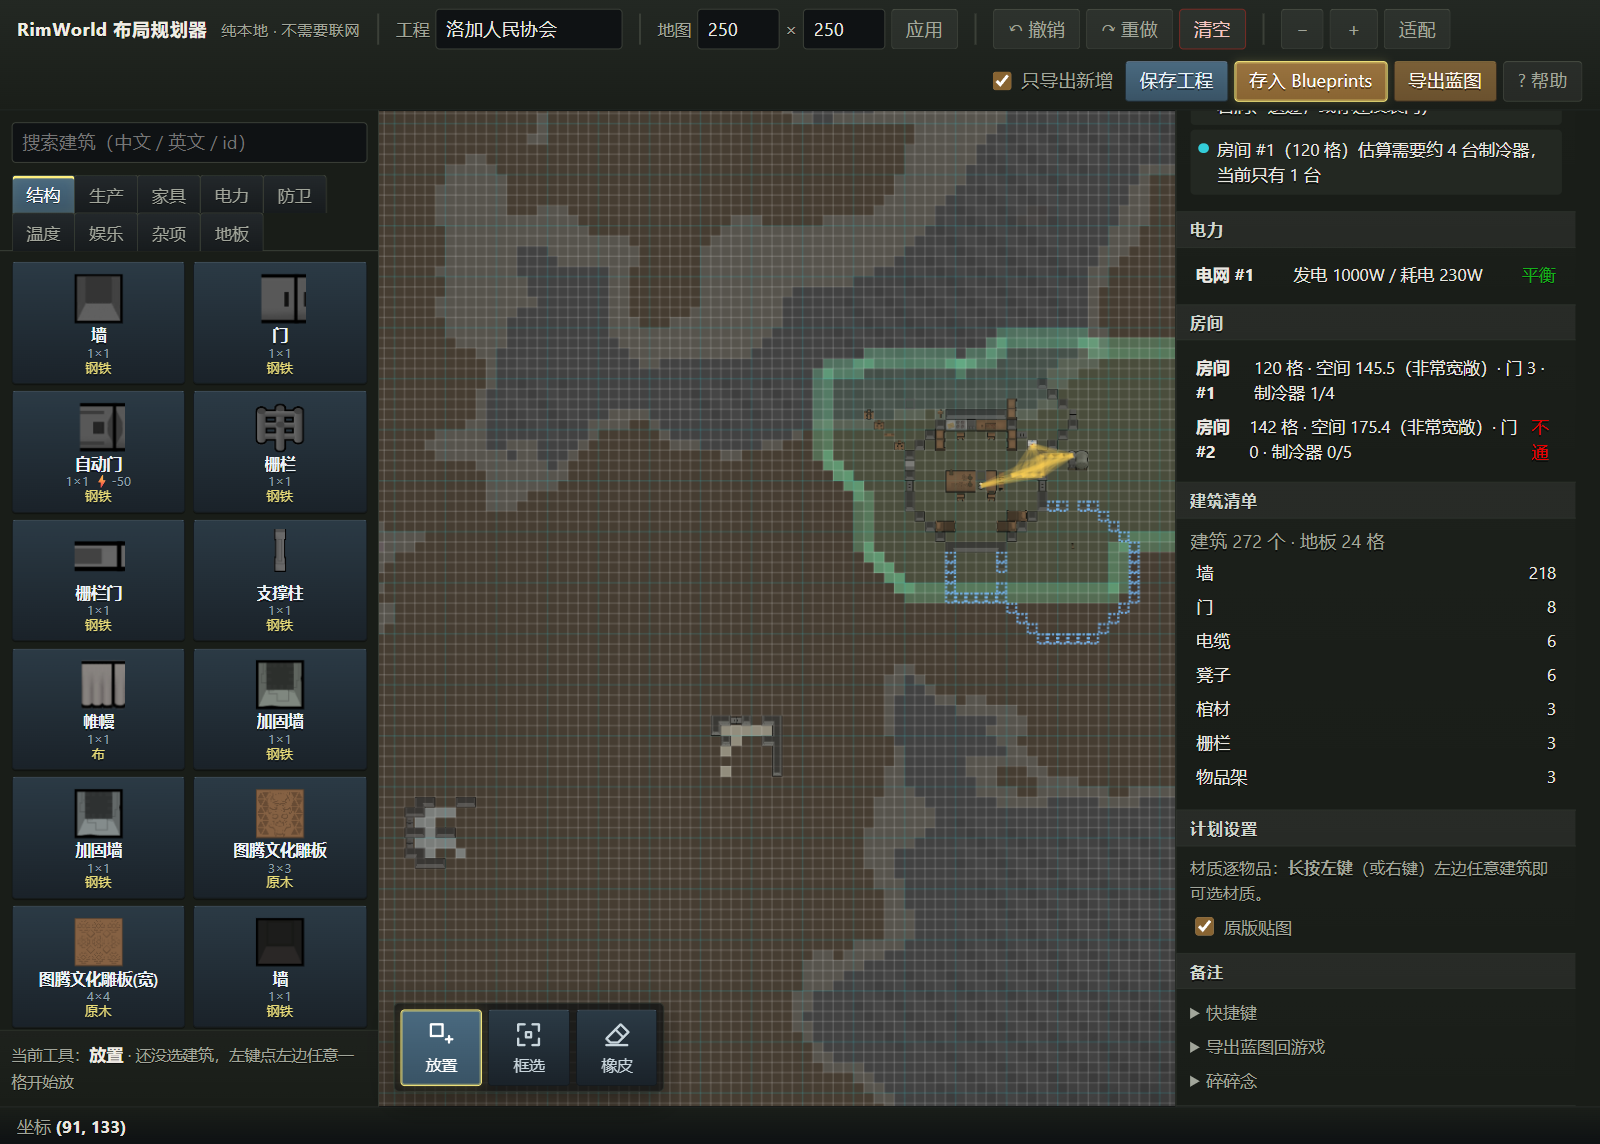
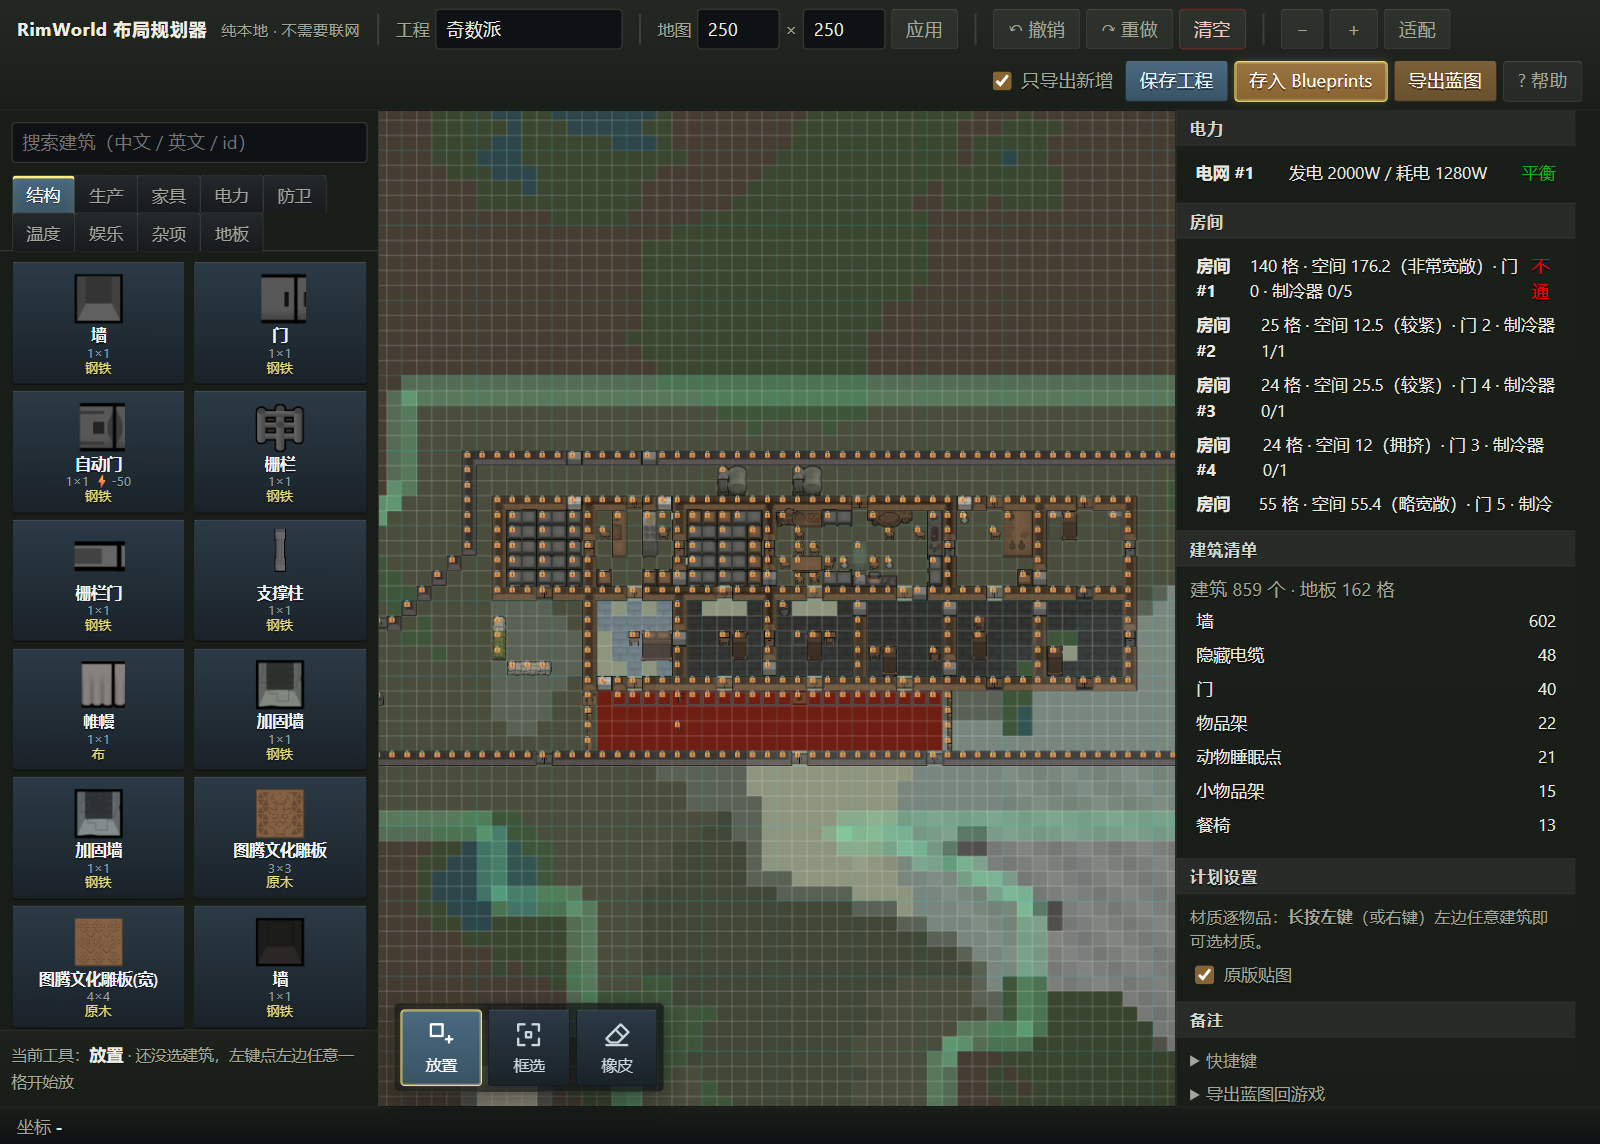
docs: 配图改为奇数派存档

diff --git a/README.md b/README.md
@@ -82,12 +82,13 @@ git pull
 
 ## 截图
 
-### 布局校验：电力网络
+### 布局校验：电力 / 房间 / 建筑清单
 
 ![电力网络校验](docs/images/power.png)
 
-打开「电力网」图层就能看到接线：**粗黄线是电缆主干，细线是各设备接入网络**。
-右侧「运行校验」会算出每张网的发电 / 耗电 / 储电与缺口，以及每个房间的面积、空间评分、门数与制冷器够不够。
+点右侧「运行校验」后，会列出每张电网的发电 / 耗电 / 储电与缺口（这张图里 #1 网是 2000W / 1280W，平衡），
+以及每个房间的面积、空间评分、门数与制冷器够不够；下面还有建筑清单统计。
+打开「电力网」图层时，画布上还会画出电缆连线（这张图为了看清基地，暂时关掉了连线）。
 
 ### 存档分析：地形 / 玩家区域 / 小人 / 科技 / 库存 / 工期
 
